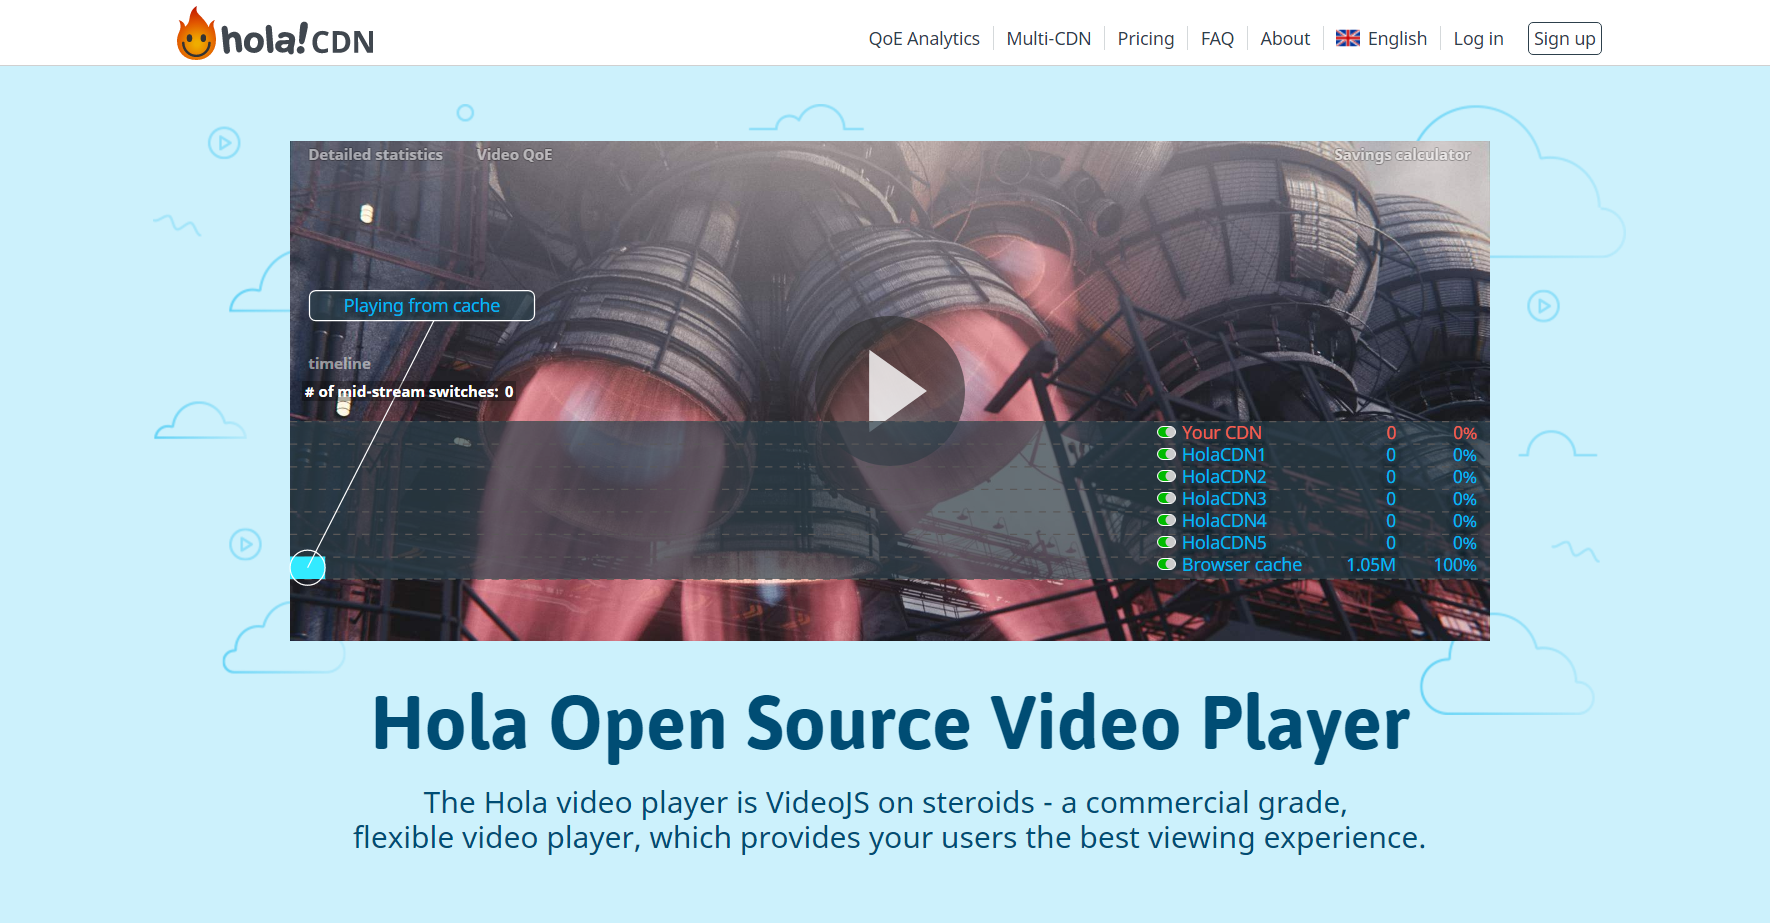
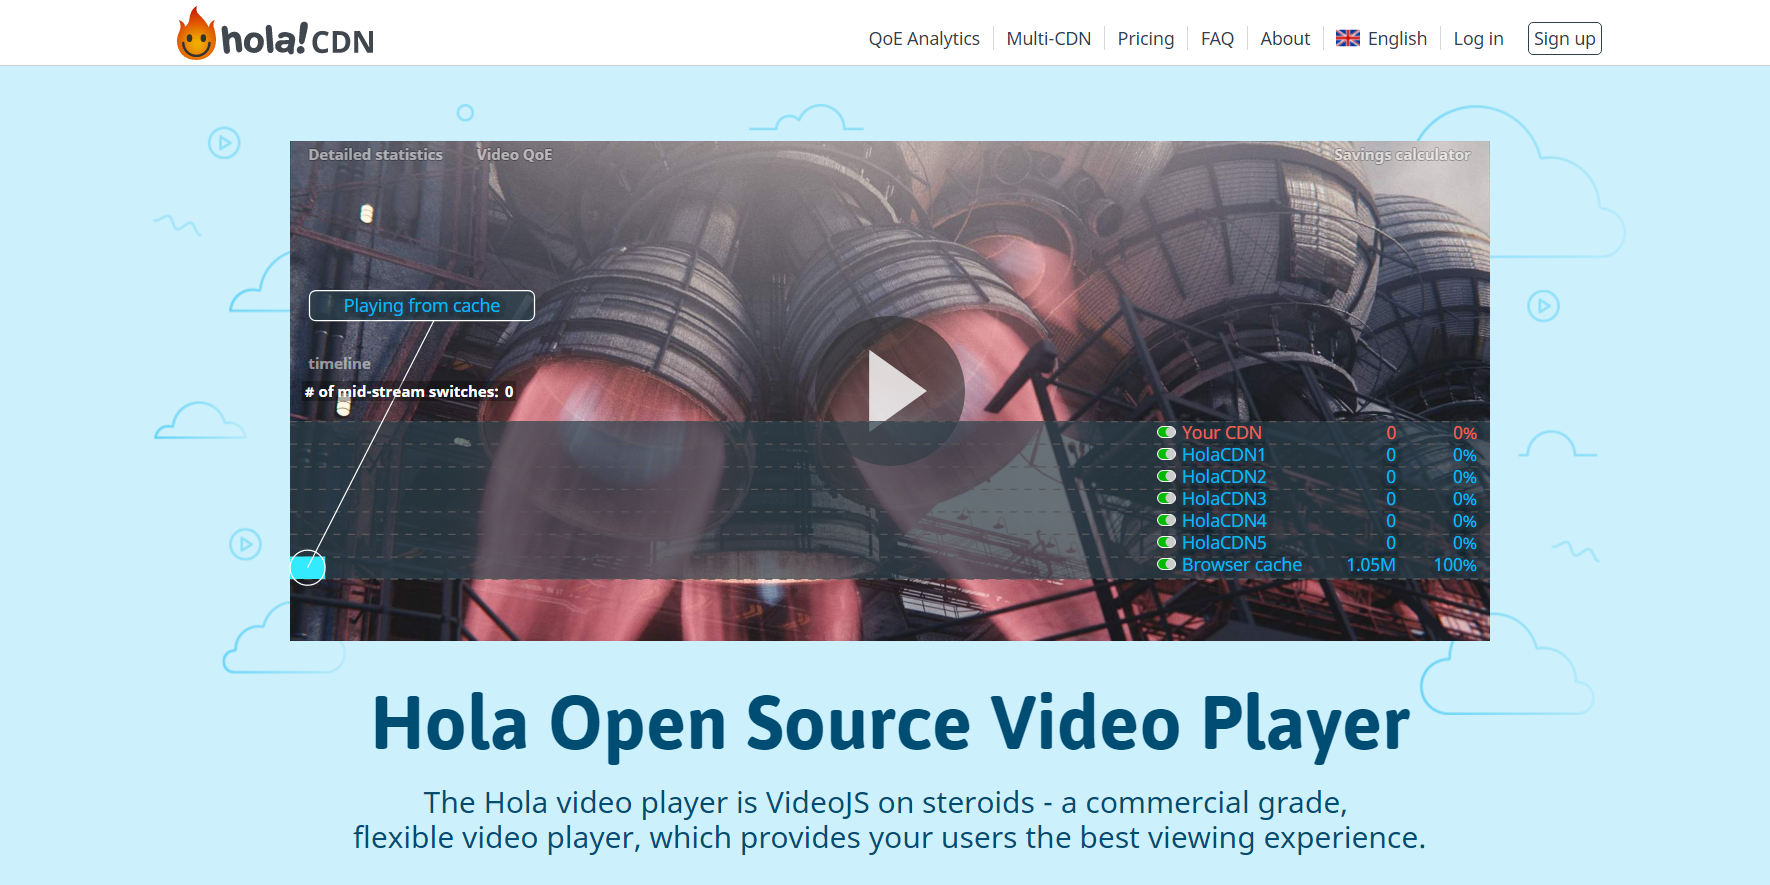
done images have same ratio

diff --git a/src/public/index.html b/src/public/index.html
@@ -73,9 +73,9 @@
                     <div class="card">
                         <div class="gallery-div">
                             <div class="gallery-img-wrap-div">
-                                <img src="../img/ScreenshotLgg.png" alt="Lgg" />
+                                <img src="../img/ScreenshotLgg_compressed.png" alt="Lgg" />
                             </div>
-                            <a href="http://http://playground.wangboyang.com/lgg/" target="_blank"></a>
+                            <a href="http://playground.wangboyang.com/lgg/" target="_blank"></a>
                         </div>
                         <h3>LGQM Generator</h3>
                         <p>Use RNN (Recurrent Neural Network) to generate novel in Chinese, based on time-travel novel LGQM</p>
@@ -85,7 +85,7 @@
                     <div class="card">
                         <div class="gallery-div">
                             <div class="gallery-img-wrap-div">
-                                <img src="../img/ScreenshotHolaPlayer.png" alt="Lgg" />
+                                <img src="../img/ScreenshotHolaPlayer_compressed.png" alt="Lgg" />
                             </div>
                             <a href="https://github.com/hola/hola_player" target="_blank"></a>
                         </div>
@@ -95,7 +95,7 @@
                     <div class="card">
                         <div class="gallery-div">
                             <div class="gallery-img-wrap-div">
-                                <img src="../img/ScreenshotNusarcast.png" alt="Lgg" />
+                                <img src="../img/ScreenshotNusarcast_compressed.png" alt="Lgg" />
                             </div>
                             <a href="https://nusarcast.com/" target="_blank"></a>
                         </div>

diff --git a/src/public/css/index.css b/src/public/css/index.css
@@ -578,7 +578,7 @@ a:focus {
 	overflow: hidden;
 	margin: -20px -20px 20px -20px;
 	display: inline-block;
-	border-radius: 10px 10px 0 0;
+	border-radius: 7px 7px 0 0;
 }
 
 .vignette {
@@ -617,7 +617,7 @@ a:focus {
 }
 
 .cards {
-	margin: 40px 0 40px 0;
+	margin: 20px 0;
 	font-size: 0;
 	display: flex;
 	justify-content: space-between;
@@ -626,7 +626,7 @@ a:focus {
 .card {
 	padding: 20px;
 	background-color: rgba(0, 0, 0, 0.85);
-	border-radius: 10px;
+	border-radius: 7px;
 	margin: 15px;
 	/*width: calc(50% - 30px);*/
 	text-align: left;
